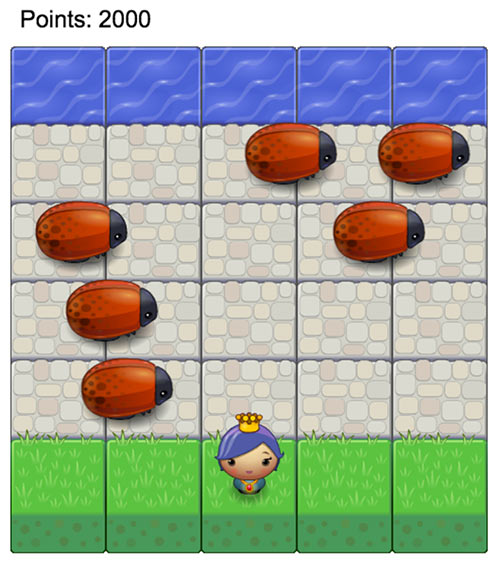
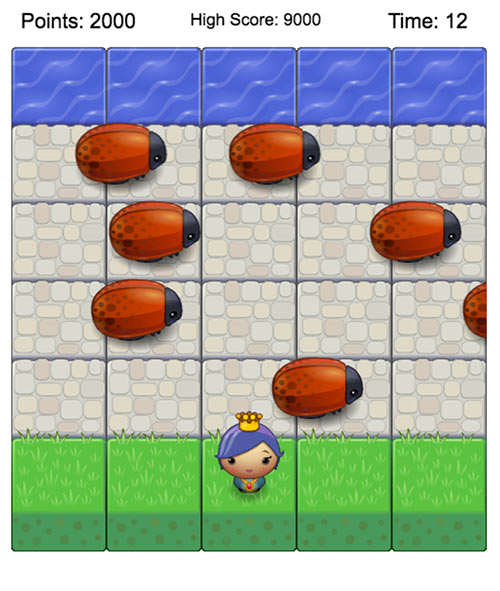
add timer and highscore

diff --git a/js/app.js b/js/app.js
@@ -1,25 +1,73 @@
 /* Gameinfo object holds any properties relevent to the game.
  */
 var GameInfo = function() {
-    this.canvasWidth = 505;
-    this.canvasHeight = 606;
-    this.spriteWidth = 101;
-    this.spriteHeight = 83;
+    this.CANVAS_WIDTH = 505;
+    this.CANVAS_HEIGHT = 606;
+    this.SPRITE_WIDTH = 101;
+    this.SPRITE_HEIGHT = 83;
     this.points = 0;
+    this.highscore = 0;
+    this.secsLeft = 20;
+    this.timeNow = Date.now();
+    this.lastTime = Date.now();
 };
 
 GameInfo.prototype.addPoints = function(points) {
     this.points += points;
 };
 
-GameInfo.prototype.resetPoints = function() {
-    this.points = 0;
+GameInfo.prototype.addTime = function(secs) {
+    this.secsLeft += secs;
 };
 
+GameInfo.prototype.reset = function() {
+    if (this.points > this.highscore) {
+      this.highscore = this.points;
+    }
+    this.points = 0;
+    this.secsLeft = 20;
+};
+
+/* This function will update the game time property as well as render
+ * the time left. Gets called in the update() function.
+ */
+GameInfo.prototype.update = function() {
+    this.timeNow = Date.now();
+    if (this.timeNow - this.lastTime >= 1000) {
+      this.secsLeft--;
+      this.lastTime = Date.now();
+      ctx.fillStyle = "white";
+      ctx.fillRect(400, 0, 130, 50);
+      ctx.font = "22px Arial";
+      ctx.fillStyle = "black";
+      ctx.fillText("Time: " + this.secsLeft, 400, 30);
+    }
+};
+
+/* This function renders the points, the default starting time,
+ * and the highscore. Gets called in the reset() function.
+ */
 GameInfo.prototype.render = function() {
-    ctx.font = "25px Arial";
+    ctx.font = "22px Arial";
     ctx.fillStyle = "black";
     ctx.fillText("Points: " + this.points, 10, 30);
+    ctx.fillText("Time: " + this.secsLeft, 400, 30);
+    ctx.font = "18px Arial";
+    ctx.fillText("High Score: " + this.highscore, 190, 27);
+};
+
+/* This function is called in the update() function to check whether
+ * the player has won, died, or ran out of time.
+ */
+GameInfo.prototype.checkGameover = function(player) {
+    if (player.isDead || this.secsLeft < 0) {
+        this.reset();
+        reset();
+    } else if (player.y < 1) {
+        this.addPoints(1000);
+        this.addTime(2);
+        reset();
+    }
 };
 
 /* Enemies our player must avoid
@@ -33,7 +81,7 @@ var Enemy = function(col) {
     this.sprite = 'images/enemy-bug.png';
     this.speed = 80 + Math.random() * 200;
     this.x = -100 - Math.random() * 300;
-    this.y = -30 + gameInfo.spriteHeight * col;
+    this.y = -30 + gameInfo.SPRITE_HEIGHT * col;
     this.width = 80;
     this.height = 60;
     this.offsetY = 90;
@@ -48,7 +96,7 @@ Enemy.prototype.update = function(dt) {
      * If the object is still crossing the screen, then increase it's x pos.
      * If it's made it across the screen, reset it's position with a faster speed.
      */
-    if (this.x < gameInfo.canvasWidth) {
+    if (this.x < gameInfo.CANVAS_WIDTH) {
         this.x += dt * this.speed;
     } else {
         this.x = -100 - Math.random() * 200;
@@ -74,7 +122,6 @@ Enemy.prototype.render = function() {
 
     /* Uncomment this line to see the enemy's bounding box */
     // ctx.strokeRect(this.x, this.y + this.offsetY, this.width, this.height);
-
 };
 
 /**
@@ -86,8 +133,8 @@ Enemy.prototype.render = function() {
  */
 var Player = function() {
     this.sprite = 'images/char-boy.png';
-    this.x = gameInfo.spriteWidth * 2;
-    this.y = -30 + gameInfo.spriteHeight * 5;
+    this.x = gameInfo.SPRITE_WIDTH * 2;
+    this.y = -30 + gameInfo.SPRITE_HEIGHT * 5;
     this.width = 60;
     this.height = 40;
     this.offsetX = 20;
@@ -98,8 +145,8 @@ var Player = function() {
 // This is called in reset() to reset the starting position of the player
 // and reset the isDead flag.
 Player.prototype.setup = function() {
-    this.x = gameInfo.spriteWidth * 2;
-    this.y = -30 + gameInfo.spriteHeight * 5;
+    this.x = gameInfo.SPRITE_WIDTH * 2;
+    this.y = -30 + gameInfo.SPRITE_HEIGHT * 5;
     this.isDead = false;
 };
 
@@ -110,19 +157,6 @@ Player.prototype.render = function() {
     // ctx.strokeRect(this.x + this.offsetX, this.y + this.offsetY, this.width, this.height);
 };
 
-/* This function is called in the update() function to check whether
- * the player has won or has died.
- */
-Player.prototype.checkGameover = function() {
-    if (this.isDead) {
-        gameInfo.resetPoints();
-        reset();
-    } else if (this.y < 1) {
-        gameInfo.addPoints(1000);
-        reset();
-    }
-};
-
 /* handleInput is called in the eventlistener and will process keypresses
  * to move the player.
  */
@@ -130,25 +164,25 @@ Player.prototype.handleInput = function(key) {
     switch (key) {
         case 'left':
             if (this.x > 0) {
-                this.x -= gameInfo.spriteWidth;
+                this.x -= gameInfo.SPRITE_WIDTH;
             }
             break;
 
         case 'right':
-            if (this.x < gameInfo.canvasWidth - gameInfo.spriteWidth) {
-                this.x += gameInfo.spriteWidth;
+            if (this.x < gameInfo.CANVAS_WIDTH - gameInfo.SPRITE_WIDTH) {
+                this.x += gameInfo.SPRITE_WIDTH;
             }
             break;
 
         case 'up':
             if (this.y > 0) {
-                this.y -= gameInfo.spriteHeight;
+                this.y -= gameInfo.SPRITE_HEIGHT;
             }
             break;
 
         case 'down':
-            if (this.y < gameInfo.canvasHeight - gameInfo.spriteHeight * 3) {
-                this.y += gameInfo.spriteHeight;
+            if (this.y < gameInfo.CANVAS_HEIGHT - gameInfo.SPRITE_HEIGHT * 3) {
+                this.y += gameInfo.SPRITE_HEIGHT;
             }
             break;
     }

diff --git a/js/engine.js b/js/engine.js
@@ -80,7 +80,8 @@ var Engine = (function(global) {
      */
     function update(dt) {
         updateEntities(dt);
-        player.checkGameover();
+        gameInfo.update();
+        gameInfo.checkGameover(player);
     }
 
     /* This is called by the update function and loops through all of the
